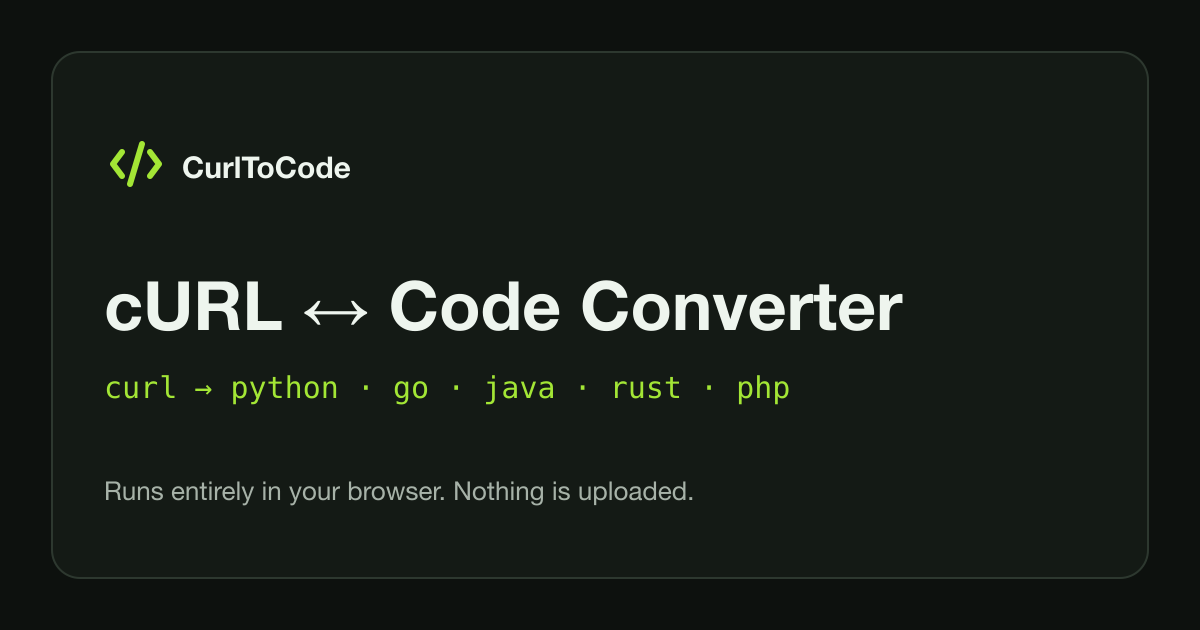
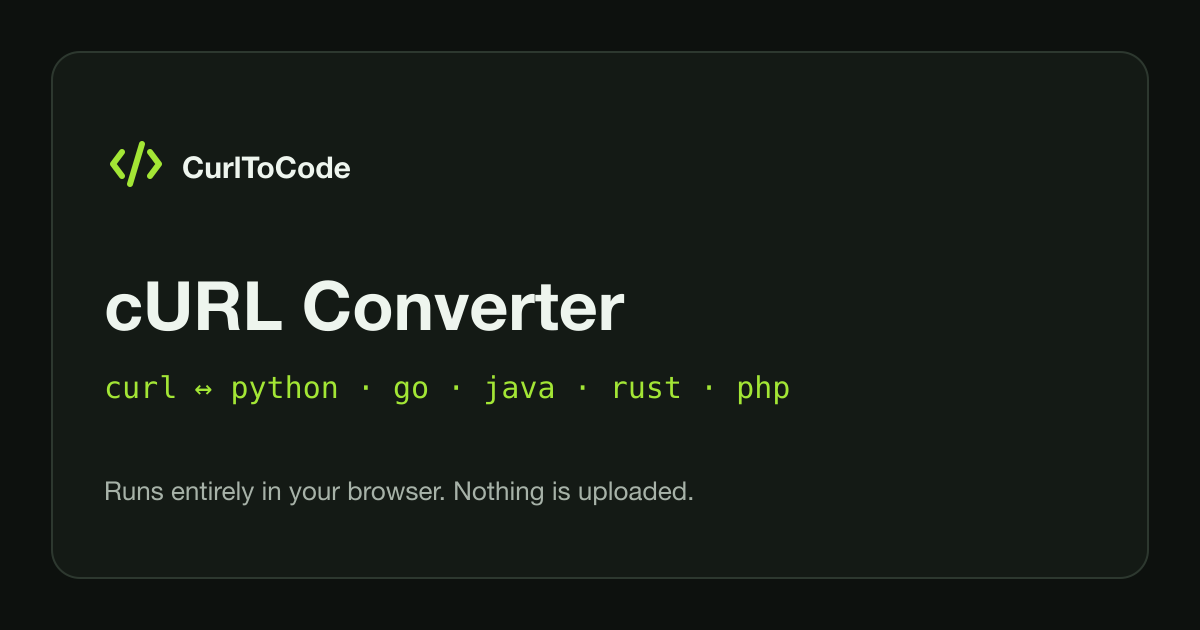
Target the head term the homepage was not competing for
The homepage led with "cURL to Code Converter", built around a phrase
whose entire keyword cluster returns three terms under 100 searches a
month. "cURL converter" — an order of magnitude larger, and the term the
incumbent ranks first for — did not appear on the page at all.

Title, H1, and description now carry "cURL Converter" and "cURL to
Python" as phrases. The lede still states both directions, so the
bidirectional capability is not lost from the fold.

Also declare the converter as a SoftwareApplication/WebApplication with
a real zero price. Every page already described itself, but nothing said
the site is a free tool. The entity lives on the home page alone: the
reference pages embed the same converter, but they are documents about a
conversion, and claiming the application on all 70 would both describe
them inaccurately and split one entity across 70 URLs. The e2e suite
asserts that exclusivity rather than the previous blanket ban.

The home page FAQ still said reverse conversion read only JavaScript and
TypeScript Fetch and Axios, which stopped being true when the reverse
parsers reached parity across nine languages. Corrected; it is indexed as
FAQPage, so the claim was reaching search results.

format, lint, typecheck (0 errors), 1023 tests, build, and 62 e2e all
verified by exit code.

Changed region(s): [[0.2467, 0.4222, 0.7708, 0.5429]]

diff --git a/apps/web/src/lib/structured-data.ts b/apps/web/src/lib/structured-data.ts
@@ -42,6 +42,13 @@ export interface StructuredDataInput {
    * is not.
    */
   readonly article?: ArticleInput | undefined;
+  /**
+   * Set on the one page whose primary purpose is the tool itself. Reference
+   * pages embed the same converter but are documents about a conversion, so
+   * declaring the application on all of them would describe them inaccurately
+   * and split the entity across 70 URLs.
+   */
+  readonly application?: boolean | undefined;
 }
 
 export interface ArticleInput {
@@ -54,6 +61,7 @@ export interface ArticleInput {
 
 const WEBSITE_ID = `${SITE_URL}/#website`;
 const ORGANIZATION_ID = `${SITE_URL}/#organization`;
+const APPLICATION_ID = `${SITE_URL}/#application`;
 
 function organization(): Record<string, unknown> {
   return {
@@ -82,6 +90,42 @@ function webSite(): Record<string, unknown> {
   };
 }
 
+/**
+ * The converter itself, as an entity distinct from the page describing it.
+ *
+ * Both types are declared: `WebApplication` is the accurate one, and the
+ * `SoftwareApplication` supertype is kept alongside it because that is the type
+ * consumers actually match on. `offers` states a real price of zero rather than
+ * leaving "free" implied by prose.
+ */
+function softwareApplication(): Record<string, unknown> {
+  return {
+    "@type": ["SoftwareApplication", "WebApplication"],
+    "@id": APPLICATION_ID,
+    name: SITE_NAME,
+    url: SITE_URL,
+    description: SITE_DESCRIPTION,
+    applicationCategory: "DeveloperApplication",
+    applicationSubCategory: "HTTP request converter",
+    operatingSystem: "Any",
+    browserRequirements: "Requires JavaScript",
+    isAccessibleForFree: true,
+    offers: {
+      "@type": "Offer",
+      price: "0",
+      priceCurrency: "USD",
+      availability: "https://schema.org/InStock",
+    },
+    featureList: [
+      "Convert cURL commands to Python, JavaScript, TypeScript, Go, Rust, Java, C#, PHP, and Ruby",
+      "Convert code back to cURL commands",
+      "Runs entirely in the browser without uploading requests",
+    ],
+    publisher: { "@id": ORGANIZATION_ID },
+    inLanguage: "en",
+  };
+}
+
 function webPage(input: StructuredDataInput): Record<string, unknown> {
   return {
     "@type": "WebPage",
@@ -91,6 +135,9 @@ function webPage(input: StructuredDataInput): Record<string, unknown> {
     description: input.description,
     isPartOf: { "@id": WEBSITE_ID },
     inLanguage: "en",
+    ...(input.application === true
+      ? { mainEntity: { "@id": APPLICATION_ID } }
+      : {}),
     ...(input.breadcrumbs === undefined || input.breadcrumbs.length === 0
       ? {}
       : { breadcrumb: { "@id": `${input.canonical}#breadcrumb` } }),
@@ -206,6 +253,7 @@ export function buildStructuredData(
     webSite(),
     webPage(input),
   ];
+  if (input.application === true) graph.push(softwareApplication());
   if (input.breadcrumbs !== undefined && input.breadcrumbs.length > 0)
     graph.push(breadcrumbList(input.canonical, input.breadcrumbs));
   if (input.faqs !== undefined && input.faqs.length > 0)

diff --git a/e2e/converter.spec.ts b/e2e/converter.spec.ts
@@ -3,7 +3,7 @@ import type { Page } from "@playwright/test";
 
 const productionBaseUrl = "http://127.0.0.1:4324";
 const indexablePages = [
-  ["/", "cURL ↔ Code Converter"],
+  ["/", "cURL Converter"],
   ["/converters", "cURL and code converters"],
   ["/about", "About CurlToCode"],
   ["/contact", "Contact"],
@@ -599,7 +599,7 @@ test("every indexable page renders canonical metadata and structured data", asyn
     descriptions.add(description);
     if (path === "/") {
       expect(title).toBe(
-        "cURL to Code Converter – Python & JavaScript | CurlToCode",
+        "cURL Converter – Convert cURL to Python & JavaScript | CurlToCode",
       );
       await expect(
         page.getByRole("heading", {
@@ -633,18 +633,31 @@ test("every indexable page renders canonical metadata and structured data", asyn
     expect(schema).not.toBeNull();
     const parsed = JSON.parse(schema ?? "") as {
       readonly "@graph": readonly {
-        readonly "@type": string;
+        readonly "@type": string | readonly string[];
         readonly itemListElement?: readonly {
           readonly name: string;
           readonly position: number;
         }[];
       }[];
     };
-    const pageTypes = parsed["@graph"].map((entry) => entry["@type"]);
+    // A node may declare several types, so the graph is flattened before
+    // membership is checked.
+    const pageTypes = parsed["@graph"].flatMap((entry) =>
+      typeof entry["@type"] === "string"
+        ? [entry["@type"]]
+        : [...entry["@type"]],
+    );
     expect(pageTypes).toContain("Organization");
     expect(pageTypes).toContain("WebSite");
     expect(pageTypes).toContain("WebPage");
-    expect(pageTypes).not.toContain("SoftwareApplication");
+    // The application entity belongs to the converter, not to each document
+    // that embeds it, so exactly one URL may claim it.
+    if (path === "/") {
+      expect(pageTypes).toContain("SoftwareApplication");
+      expect(pageTypes).toContain("WebApplication");
+    } else {
+      expect(pageTypes).not.toContain("SoftwareApplication");
+    }
     if (path !== "/") {
       const breadcrumb = parsed["@graph"].find(
         (entry) => entry["@type"] === "BreadcrumbList",
